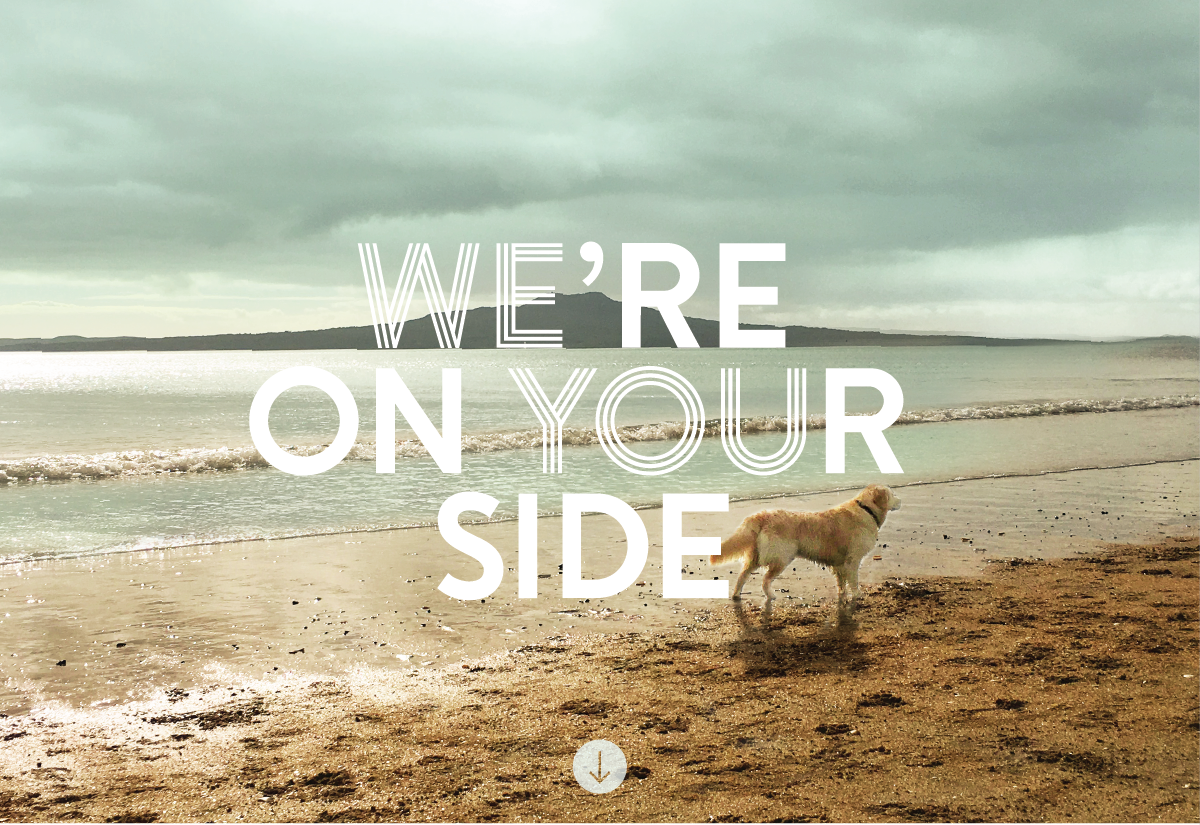
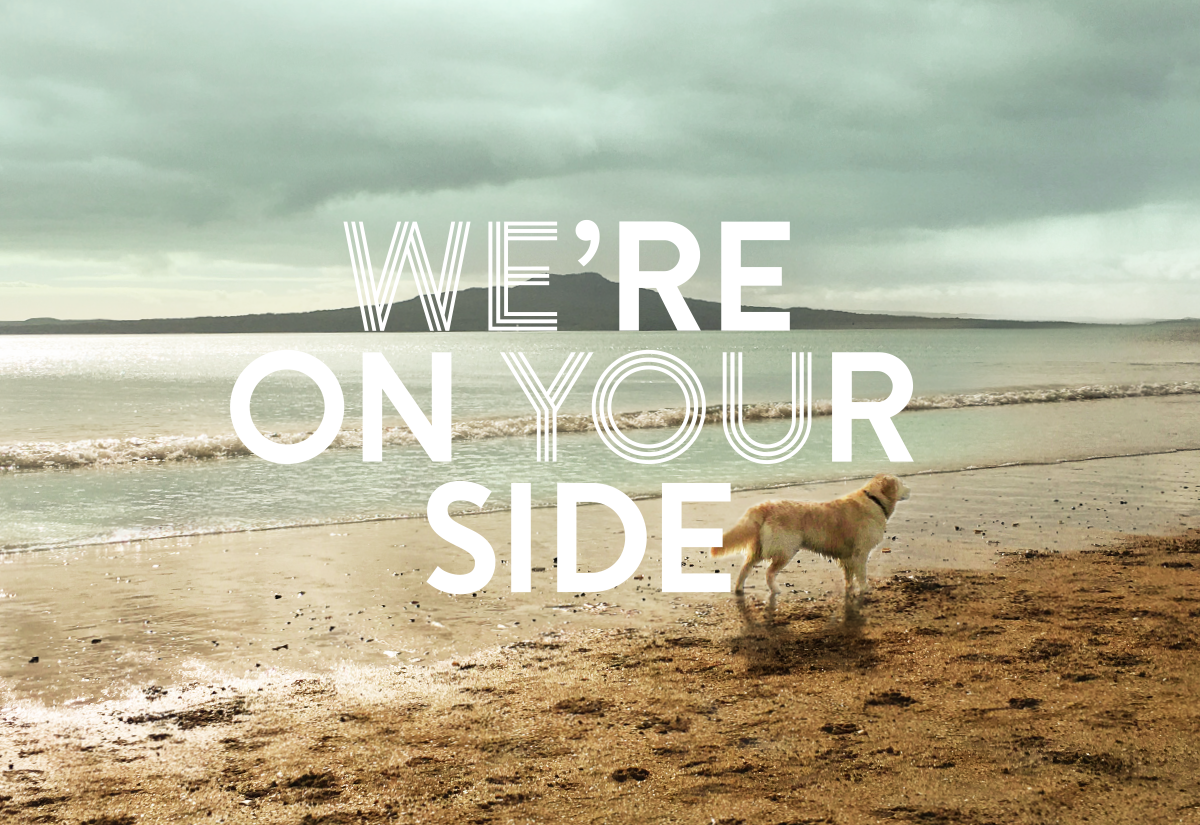
feedback list

diff --git a/public/themes/simpsonwestern/css/style.css b/public/themes/simpsonwestern/css/style.css
@@ -2024,8 +2024,6 @@ div.page {
 }
 
 .recent-article .article-links {
-    border-top: 2px solid #686870;
-    border-bottom: 2px solid #686870;
     padding: 5px 0;
     margin-bottom: 25px;
 }
@@ -2242,7 +2240,7 @@ div.page {
 .parallax {
   position: relative;
   text-align: center;
-  padding: 85px 0;
+  padding-bottom: 0;
   overflow: hidden;
   border-top: 1px solid #e3e3e3;
   border-bottom: 1px solid #e3e3e3;
@@ -6957,9 +6955,42 @@ div.dark_square #pp_full_res .pp_inline {
   font-size:13px;
 }
 
+/* Home Fix*/
+
+.homepage{
+  position: relative;
+}
+
+.down-arrow{
+  position:absolute;
+  bottom:24px;
+  left:48%;
+  z-index:20000;
+}
+
+.down-arrow a img{
+  width:54px;
+  height:54px;
+}
+
+.sw-logo{
+    width: 240px;
+    height: 18px;
+    overflow: hidden;
+    font-size: 1px;
+    text-indent: -9999px;
+    position:absolute;
+    top:34px;
+    left:50px;
+    background: url(../images/sw-logo.png) no-repeat ;
+}
+
+
+
 /* Banner */
 
 .banner{
+  margin-top:80px;
   margin-bottom:64px;
 }
 
@@ -7065,7 +7096,14 @@ nav.navbar{
   width:100%;
   max-width:1168px;
   margin:0 auto;
+  height:80px;
 }
+
+.content.homepage{
+  margin-top:80px;
+}
+
+
 
 /* Article Holder */
 
@@ -7226,7 +7264,6 @@ div.sneak{
   color:#343741;
   width:100%;
   display:inline-block;
-  border-bottom:1px solid  #343741;
   margin-bottom:8px;
 }
 
@@ -7285,7 +7322,7 @@ div#Breadcrumbs a{
 }
 
 .title h5{
-  border-bottom:2px solid #000;
+  
   margin-top:-5px;
 }
 
@@ -7334,6 +7371,10 @@ input.subscribe{
   margin-left:24px;
   color:#74777c !important;
   float:right;
+}
+
+.popular-posts .nav li{
+  border-bottom:0 none !important;
 }
 
 /* FIND US */
@@ -7419,7 +7460,7 @@ body.FindUs #footer{
 
   .nav-menu{
     width:288px !important;
-    height:auto !important;
+    
   }
 
   nav.navbar{
@@ -7849,6 +7890,8 @@ body.FindUs #footer{
     width:113% !important;
   }
 
+  
+
 }
 @media (max-width: 480px) {
 
@@ -7856,6 +7899,28 @@ body.FindUs #footer{
     width:480px;
     margin-left:0 !important;
   }*/
+
+ 
+
+  .content.homepage,
+  .row.header
+  {
+    padding:0 !important;
+  }
+
+  .phone-icon,
+  .header button{
+    margin-top:26px !important;
+    margin-right:4px !important;
+  }
+
+  .sw-logo{
+    width: 195px;
+    height: 15px;
+    background: url(../images/sw-logo-mobile.png) no-repeat !important;
+    clear:both;
+    left:16px;
+  }
   
   div.image-holder{
     width:150% !important;
